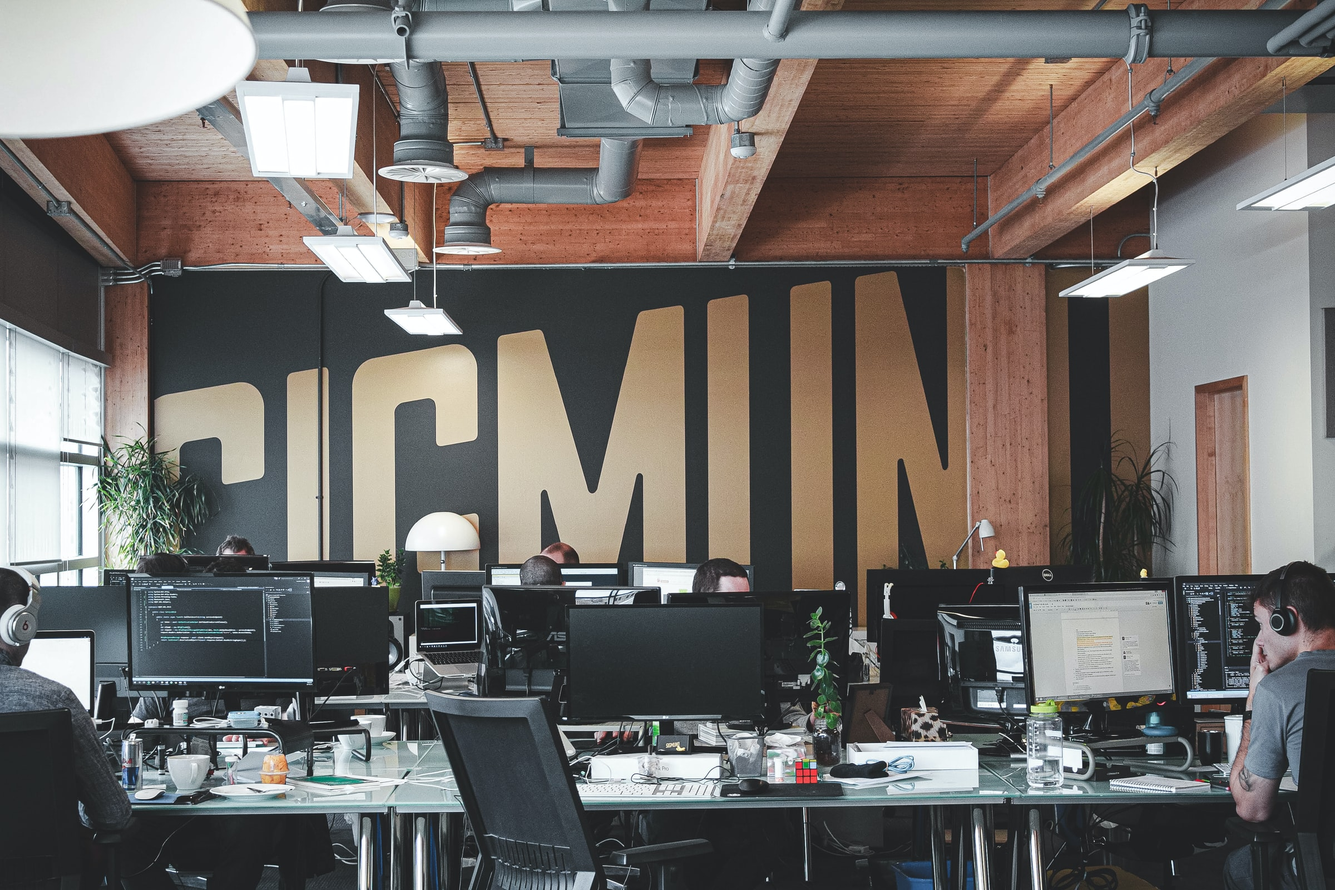
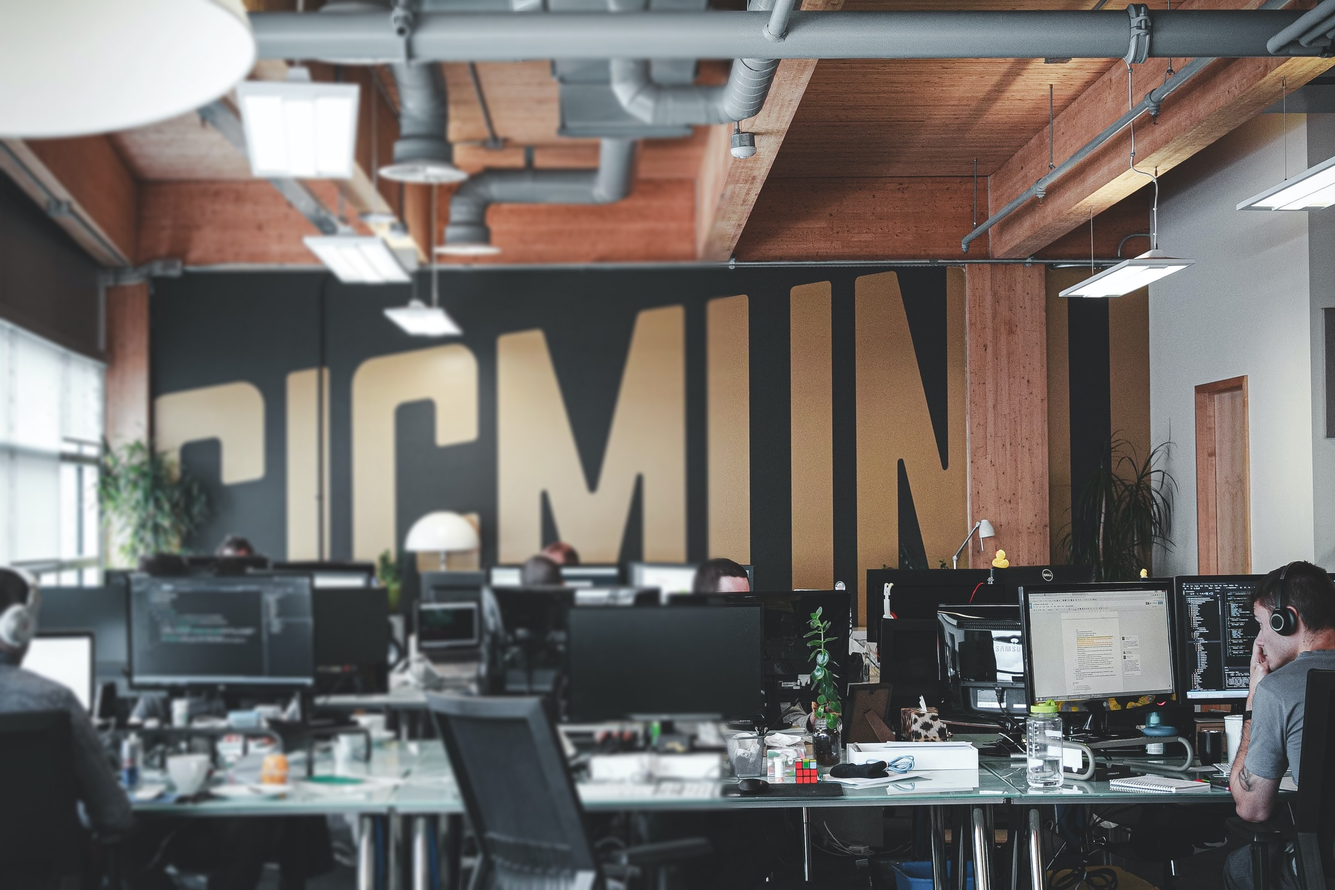
Estilização do header no CSS iniciada

diff --git a/style.css b/style.css
@@ -2,3 +2,27 @@
 
 @import url('https://cdnjs.cloudflare.com/ajax/libs/font-awesome/5.15.2/css/all.min.css');
 
+* {
+    margin: 0;
+    padding: 0;
+}
+
+header {
+    width: 100%;
+    height: 100vh;
+    overflow: hidden;
+}
+
+.img-wrapper {
+    width: 100%;
+    height: 100%;
+    overflow: hidden;
+    background-color: rgba(0, 0, 0, .7);
+}
+
+.img-wrapper img {
+    width: 100%;
+    height: 100%;
+    object-fit: cover;
+    opacity: .8;
+}
